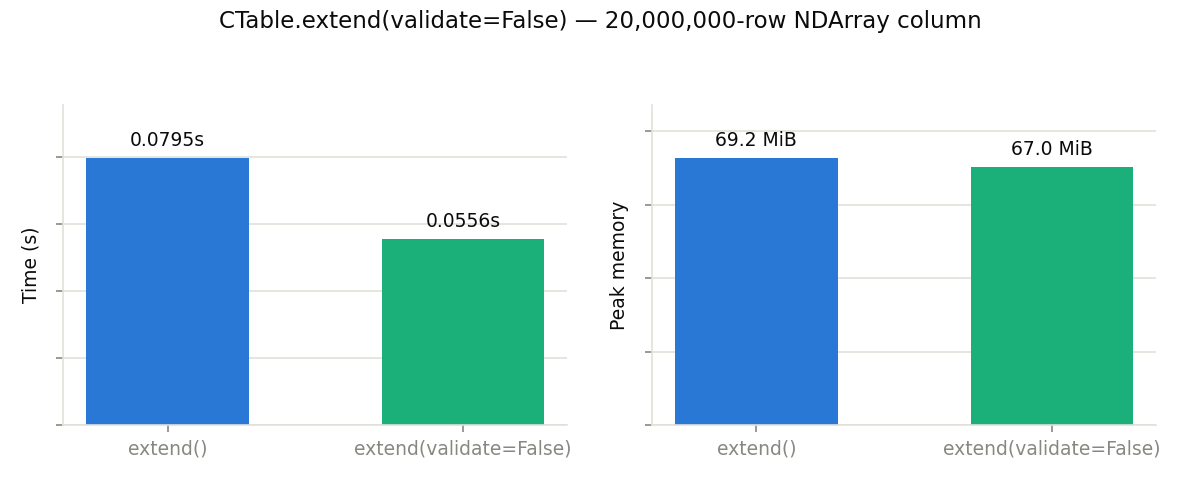
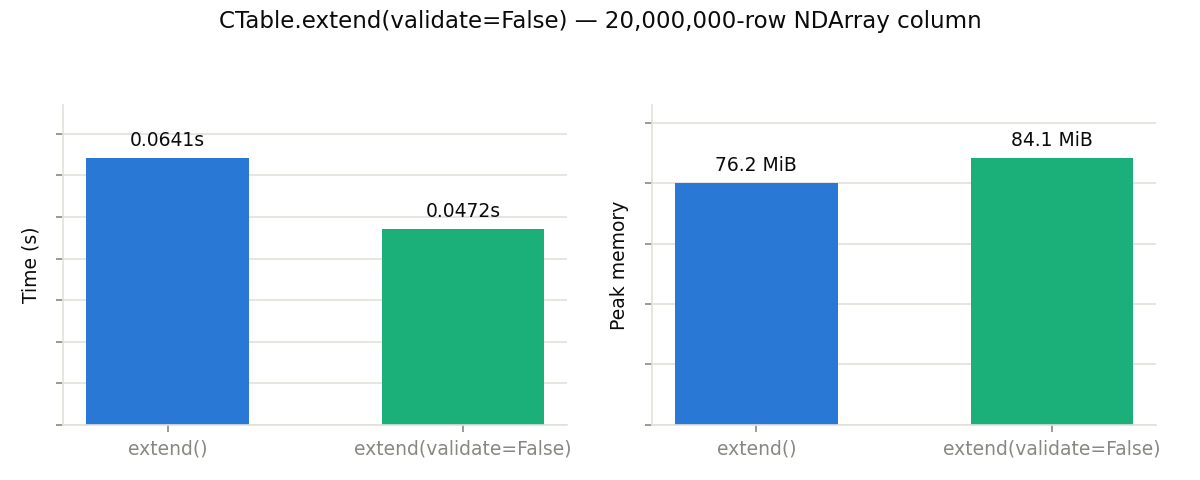
Refresh optimization tips against the reference machine
Regenerates all 12 tip plots and their numbers in one pass on the Apple
M4 Pro Mac Mini the guide names as its reference, so the figures are
mutually comparable instead of a mix of machines and conditions.

Most numbers moved because the harness stopped mis-measuring: tracemalloc
no longer runs inside the timed region, and elapsed is the best of three
calls. Reported times are now the work itself rather than the work plus
profiler overhead.

diff --git a/doc/guides/optimization_tips.md b/doc/guides/optimization_tips.md
@@ -18,7 +18,7 @@ a = blosc2.linspace(0, 1, N)
 
 ![blosc2.linspace() vs asarray(np.linspace())](optim_tips/tip_01_constructors.png)
 
-At 200M float64 elements, the two are comparable in speed, but the real win is memory: **~25x less peak memory**, and the gap widens with array size — the naive path's memory is O(N), while the constructor's stays roughly O(chunk size) for compressible enough data. The same applies to {func}`arange() <blosc2.arange>` and {func}`fromiter() <blosc2.fromiter>`.
+At 200M float64 elements, the constructor was **~1.6x faster** and used **~17x less peak memory**, and the memory gap widens with array size — the naive path's memory is O(N), while the constructor's stays roughly O(chunk size) for compressible enough data. The same applies to {func}`arange() <blosc2.arange>` and {func}`fromiter() <blosc2.fromiter>`.
 
 *Benchmark for this tip: [`tip_01_constructors.py`](https://github.com/Blosc/python-blosc2/blob/main/bench/optim_tips/tip_01_constructors.py)*
 
@@ -125,7 +125,9 @@ big.slice((slice(bl, 2 * bl), slice(None)))
 
 ![Aligned vs unaligned reads, chunk and block level](optim_tips/tip_02_chunk_aligned_slicing.png)
 
-On a 16000×2000 float64 array, 400 chunk-sized reads aligned with the chunk grid were **~2.2× faster** than the same reads shifted half a chunk off-grid, and a chunk-aligned `slice()` was **~4.9× faster** still (no decompression). At the block level (with larger 1.6 MB blocks), 400 block-sized reads aligned with the block grid were **~1.7× faster**. However, `slice()` at block granularity was no faster at all — `slice()` has to produce a valid compressed array with its own chunk layout, so it can only skip decompression when both boundaries land on *chunk* boundaries; at block granularity it still decompresses and recompresses.
+On a 16000×2000 float64 array, 400 chunk-sized reads aligned with the chunk grid were **~2.4× faster** than the same reads shifted half a chunk off-grid, and a chunk-aligned `slice()` was **~7× faster** again (no decompression), i.e. ~17× faster than the unaligned read. At the block level (with larger 1.6 MB blocks), 400 block-sized reads aligned with the block grid were **~1.9× faster**. However, `slice()` at block granularity was no faster at all — `slice()` has to produce a valid compressed array with its own chunk layout, so it can only skip decompression when both boundaries land on *chunk* boundaries; at block granularity it still decompresses and recompresses.
+
+Practically: reach for `slice()` when both boundaries land on chunk boundaries and you want a compressed result. Off that path it is strictly more work than `arr[...]` — and if you wanted NumPy at the end, you have paid to compress something you are about to throw away.
 
 *Benchmark for this tip: [`tip_02_chunk_aligned_slicing.py`](https://github.com/Blosc/python-blosc2/blob/main/bench/optim_tips/tip_02_chunk_aligned_slicing.py)*
 
@@ -155,7 +157,7 @@ top10 = t.sort_by("temperature", view=True)[:10]
 
 ![CTable.sort_by(view=True) top-10](optim_tips/tip_03_sort_by_view.png)
 
-On a 20M-row table, the view form took **~74× less time** and about 25% less
+On a 20M-row table, the view form took **~99× less time** and about 25% less
 peak memory than a full ``sort_by()``.  The larger the table relative to
 *k*, the bigger the gap, since the naive path's cost is dominated by sorting
 rows you're about to discard.
@@ -188,8 +190,8 @@ list(arr.iter_sorted(start=9, stop=None, step=-1))  # bottom-10 descending
 
 ![NDArray.iter_sorted(start=-10) top-10](optim_tips/tip_03b_ndarray_iter_sorted.png)
 
-On a 20M-element float64 array, ``iter_sorted(start=-10)`` was **~70× faster**
-and used **~300× less peak memory** than ``argsort()[-10:]`` — the latter
+On a 20M-element float64 array, ``iter_sorted(start=-10)`` was **~137× faster**
+and used **~130× less peak memory** than ``argsort()[-10:]`` — the latter
 still materialises the full 20M-element positions array even when backed by a
 FULL index.
 
@@ -210,7 +212,7 @@ hottest = t["temperature"].max()  # answered from the SUMMARY index
 
 ![Column.max() with vs without a SUMMARY index](optim_tips/tip_04_summary_index_where.png)
 
-On a 10M-row column, the indexed {meth}`max() <blosc2.Column.max>` took ~4x less time than without an index, and needed essentially no extra memory — it never touches the compressed column data at all.
+On a 10M-row column, the indexed {meth}`max() <blosc2.Column.max>` took ~5x less time than without an index, and needed essentially no extra memory — it never touches the compressed column data at all.
 
 The same SUMMARY indexes can also let a selective {meth}`where() <blosc2.CTable.where>` query skip whole blocks, but only when the column's values are ordered or clustered enough that a block's min/max range can exclude the predicate entirely. With independently random data every block spans nearly the full value range and there is nothing to skip — so the `min()`/`max()` speedup is the one you can always count on.
 
@@ -230,7 +232,7 @@ total = t["val"].sum()
 
 ![col.sum() vs col[:].sum()](optim_tips/tip_05_column_reduce.png)
 
-On a 50M-row column, `col.sum()` was 1.7x faster, but more importantly it used **~12x less peak memory**. For large tables the memory savings alone can be the deciding factor.
+On a 250M-row column, `col.sum()` was ~1.6x faster, but more importantly it used **~62x less peak memory**. For large tables the memory savings alone can be the deciding factor.
 
 *Benchmark for this tip: [`tip_05_column_reduce.py`](https://github.com/Blosc/python-blosc2/blob/main/bench/optim_tips/tip_05_column_reduce.py)*
 
@@ -250,7 +252,7 @@ total = t["temperature"].sum(where=t.region == 3)
 
 ![col.sum(where=...) vs NumPy-style masking](optim_tips/tip_08_where_pushdown.png)
 
-On a 20M-row table, the pushed-down form was **~1.9x faster** and used **~7x less peak memory**. Predicates can combine several columns too: `t["amount"].sum(where=(t.price < 300) & (t.qty > 0))`.
+On a 20M-row table, the pushed-down form was **~2.1x faster** and used **~7x less peak memory**. Predicates can combine several columns too: `t["amount"].sum(where=(t.price < 300) & (t.qty > 0))`.
 
 *Benchmark for this tip: [`tip_08_where_pushdown.py`](https://github.com/Blosc/python-blosc2/blob/main/bench/optim_tips/tip_08_where_pushdown.py)*
 
@@ -268,7 +270,7 @@ arr = blosc2.open(path, mmap_mode="r")
 
 ![open(mmap_mode='r') vs plain open()](optim_tips/tip_06_mmap_read.png)
 
-Across 8,000 scattered slice reads, `mmap_mode="r"` was **~1.1x faster**; peak memory was essentially identical for this single-process, single-open workload.
+Across 8,000 scattered slice reads, `mmap_mode="r"` was **~1.2x faster**; peak memory was essentially identical for this single-process, single-open workload.
 
 A single warm-cache process, as benchmarked here, is actually the *worst* case for showing mmap off — the payoff multiplies with several readers on the same file, which is the next tip.
 
@@ -288,7 +290,9 @@ arr = blosc2.open(path, mmap_mode="r")  # reader 1..N
 
 ![Concurrent readers: regular I/O vs mmap](optim_tips/tip_10_mmap_many_readers.png)
 
-With 8 concurrent readers doing random slice reads over a 269 MB array, mmap was **~4.5x faster** in wall time (2.5x for a single reader) and used less than half the total CPU. Don't be alarmed if mmap readers *look* heavier in RSS — each process charges the shared mapped pages it touched, but they exist once physically; per-process private memory is identical in both modes. The full discussion, including the measurement table, is in the [Sharing containers across processes](sharing_across_processes.md) guide's colophon; see that guide too for the multi-reader/NFS/Windows caveats.
+With 8 concurrent readers doing random slice reads over a 269 MB array, mmap was **~1.1x faster** in wall time and used ~5% less total CPU; with one reader the two are level. Don't be alarmed if mmap readers *look* heavier in RSS — each process charges the shared mapped pages it touched, but they exist once physically; per-process private memory is identical in both modes. The full discussion, including the measurement table, is in the [Sharing containers across processes](sharing_across_processes.md) guide's colophon; see that guide too for the multi-reader/NFS/Windows caveats.
+
+*That margin was much wider before C-Blosc2 3.3.1, which stopped reopening the frame file on every chunk access: the regular path caught up, mmap did not regress.*
 
 *Benchmark for this tip: [`tip_10_mmap_many_readers.py`](https://github.com/Blosc/python-blosc2/blob/main/bench/optim_tips/tip_10_mmap_many_readers.py)*
 
@@ -316,7 +320,7 @@ t = blosc2.open("data.b2z", mmap_mode="r")
 
 ![Reading a .b2z in place vs extracting it first](optim_tips/tip_09_b2z_read_in_place.png)
 
-On a 10M-row table, opening in place and summing a column was **~2x faster** than extract-then-open (identical peak memory), and it leaves no unpacked copy behind. The multi-reader advantages are the same as in the [memory-map tip above](#memory-map-read-only-opens), only with a single mapping serving the whole dataset.
+On a 10M-row table, opening in place and summing a column was **~3.4x faster** than extract-then-open (identical peak memory), and it leaves no unpacked copy behind. The multi-reader advantages are the same as in the [memory-map tip above](#memory-map-read-only-opens), only with a single mapping serving the whole dataset.
 
 One asymmetry to keep in mind: `.b2z` is optimized for reading, while a *writable* `.b2z` is staged in a temporary directory and rezipped on close — for write-heavy workloads, build the table as `.b2d` and pack it with {meth}`to_b2z() <blosc2.CTable.to_b2z>` when it's ready to publish.
 
@@ -338,6 +342,6 @@ t.extend({"val": src}, validate=False)
 
 ![CTable.extend(validate=False)](optim_tips/tip_07_chunked_writes.png)
 
-Extending a table with a 20M-row {class}`~blosc2.NDArray` column carrying a `ge=0` constraint, `validate=False` was **~1.4x faster**; peak memory was similar, since validation is chunk-wise anyway.
+Extending a table with a 20M-row {class}`~blosc2.NDArray` column carrying a `ge=0` constraint, `validate=False` was **~1.4x faster**; peak memory was within ~10%, since validation is chunk-wise anyway.
 
 *Benchmark for this tip: [`tip_07_chunked_writes.py`](https://github.com/Blosc/python-blosc2/blob/main/bench/optim_tips/tip_07_chunked_writes.py)*

diff --git a/doc/guides/sharing_across_processes.md b/doc/guides/sharing_across_processes.md
@@ -161,14 +161,14 @@ Not supported in either mechanism: network filesystems (NFS). Locking additional
 
 The advice above to open shared files with `mmap_mode="r"` is easy to quantify. The chart below shows waves of concurrent reader processes, each performing 300 random ~1.6 MB slice reads over the same 269 MB on-disk `NDArray` (poorly compressible data, warm OS cache — Apple M4 Pro; run [`tip_10_mmap_many_readers.py`](https://github.com/Blosc/python-blosc2/blob/main/bench/optim_tips/tip_10_mmap_many_readers.py) to reproduce):
 
-![Grouped bars, wall time for 1, 4 and 8 concurrent readers: regular I/O grows from 0.52 s to 1.82 s, mmap_mode="r" stays between 0.21 s and 0.41 s.](optim_tips/tip_10_mmap_many_readers.png)
+![Grouped bars, wall time for 1, 4 and 8 concurrent readers: regular I/O grows from 0.28 s to 0.35 s, mmap_mode="r" from 0.27 s to 0.32 s.](optim_tips/tip_10_mmap_many_readers.png)
 
 | Readers | regular I/O (wall) | `mmap_mode="r"` (wall) | speedup |
 |---|---|---|---|
-| 1 | 0.52 s | 0.21 s | 2.5x |
-| 4 | 1.28 s | 0.29 s | 4.4x |
-| 8 | 1.82 s | 0.41 s | 4.5x |
+| 1 | 0.28 s | 0.27 s | 1.0x |
+| 4 | 0.32 s | 0.31 s | 1.0x |
+| 8 | 0.35 s | 0.32 s | 1.1x |
 
-Two things stand out. First, the speedup *grows* with the number of readers: every regular-I/O access pays a syscall plus a copy from the OS page cache into private buffers, and that per-access overhead compounds under kernel contention (total CPU time was more than 2x higher without mmap). Second, the memory side is just as favorable, though harder to see: all mmap readers are served by a *single* set of clean, file-backed pages — physical memory stays at roughly one copy of the file no matter how many readers attach, the transient private buffer copies of the I/O path disappear, and under memory pressure the OS can simply drop and re-fault mapped pages instead of swapping.
+Two things stand out. First, the wall-time gap is now small, and it closed from the *regular-I/O* side: earlier releases opened and closed the file on every chunk access in every reader, and that per-access cost compounded under kernel contention, so mmap led by several times at 8 readers. Since C-Blosc2 3.3.1 a frame keeps one read handle open and reads through it positionally, which removes most of it — set `BLOSC_MAX_CACHED_READERS=0` to disable the handle cache and watch the old gap reappear (1.1x, 1.3x, 1.6x at 1, 4 and 8 readers). mmap still avoids the remaining per-block read syscall and the copy out of the page cache, worth ~5% of total CPU here, and it is still the right default for shared read-only files. Second, the memory side is just as favorable, though harder to see: all mmap readers are served by a *single* set of clean, file-backed pages — physical memory stays at roughly one copy of the file no matter how many readers attach, the transient private buffer copies of the I/O path disappear, and under memory pressure the OS can simply drop and re-fault mapped pages instead of swapping.
 
 One measurement caveat when you check this yourself: mmap readers *look* heavier in `RSS` (each process charges the shared mapped pages it has touched), while regular-I/O readers look slim only because the page cache that serves them is invisible to per-process accounting. Per-process *private* memory (USS) is what to compare — it is essentially identical in both modes.
